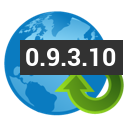
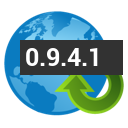
Fixed API directory browsing

Changed region(s): [[0.7812, 0.375, 0.9062, 0.5312], [0.5312, 0.375, 0.6562, 0.5312]]

diff --git a/chrome/js/requester/directory/Directory.js b/chrome/js/requester/directory/Directory.js
@@ -18,6 +18,7 @@ var Directory = Backbone.Collection.extend({
     model: DirectoryCollection,
 
     startId: 0,
+    endId: 0,
     fetchCount: 42,
     lastCount: 0,
     totalCount: 0,
@@ -52,7 +53,7 @@ var Directory = Backbone.Collection.extend({
     },
 
     loadNext: function() {
-        this.getCollections(this.startId, this.fetchCount, "descending");
+        this.getCollections(this.endId, this.fetchCount, "descending");
     },
 
     loadPrevious: function() {
@@ -62,17 +63,17 @@ var Directory = Backbone.Collection.extend({
     getCollections: function(startId, count, order) {
     	var collection = this;
 
+        console.log("Getting collections", startId, "Count", count, "Order", order);
+
     	pm.api.getDirectoryCollections(startId, count, order, function (collections) {
             var c;
             var i;
             var updated_at_formatted;
 
             if (order === "descending") {
-                collection.startId = parseInt(collections[collections.length - 1].id, 10);
                 collection.totalCount += collections.length;
             }
             else {
-                collection.startId = parseInt(collections[0].id, 10);
                 collection.totalCount -= collection.lastCount;
             }
 
@@ -90,6 +91,9 @@ var Directory = Backbone.Collection.extend({
 
                 collection.reset([]);
                 collection.add(collections, {merge: true});
+
+                collection.startId = parseInt(collections[0].id, 10);
+                collection.endId = parseInt(collections[collections.length - 1].id, 10);
 	    	}
         });
     },

diff --git a/chrome/js/utils/mediatypes.js b/chrome/js/utils/mediatypes.js
@@ -6,15 +6,16 @@ mediatypes = [
     "application/javascript",
     "application/octet-stream",
     "application/ogg",
-    "application/pdf",    
+    "application/pdf",
     "application/postscript",
     "application/rdf+xml",
     "application/rss+xml",
     "application/soap+xml",
     "application/font-woff",
+    "application/x-yaml",
     "application/xhtml+xml",
-    "application/xml",        
-    "application/xml-dtd",    
+    "application/xml",
+    "application/xml-dtd",
     "application/xop+xml",
     "application/zip",
     "application/gzip",
@@ -35,7 +36,7 @@ mediatypes = [
     "image/tiff",
     "message/http",
     "message/imdn+xml",
-    "message/partial",    
+    "message/partial",
     "message/rfc822",
     "multipart/mixed",
     "multipart/alternative",

diff --git a/chrome/js/requester/helpers/views/OAuth1Form.js b/chrome/js/requester/helpers/views/OAuth1Form.js
@@ -7,8 +7,13 @@ var OAuth1Form = Backbone.View.extend({
 
         $('#request-helper-oAuth1 .request-helper-submit').on("click", function () {
             $('#request-helpers').css("display", "none");
-            _.bind(view.save, view)();
-            _.bind(model.process, model)();
+            view.save();
+            model.process();
+        });
+
+        $('#request-helper-oAuth1 input').on("blur", function () {
+            console.log("Save helper");
+            view.save();
         });
 
         $('#request-helper-oAuth1 .request-helper-clear').on("click", function () {

diff --git a/chrome/html/requester/header.html b/chrome/html/requester/header.html
@@ -2,7 +2,7 @@
 <html>
 <head>
     <meta charset="utf-8"/>
-    <title>Postman - v0.9.3</title>
+    <title>Postman - v0.9.4</title>
     <link rel="stylesheet" type="text/css" href="css/custom-theme/jquery-ui-1.9.2.custom.min.css"/>
     <link rel="stylesheet" type="text/css" href="css/bootstrap.min.css"/>
     <link rel="stylesheet" type="text/css" href="css/bootstrap-modal.css"/>

diff --git a/chrome/tester.html b/chrome/tester.html
@@ -2,7 +2,7 @@
 <html>
 <head>
     <meta charset="utf-8"/>
-    <title>Postman - v0.9.3</title>
+    <title>Postman - v0.9.4</title>
     <link rel="stylesheet" type="text/css" href="css/custom-theme/jquery-ui-1.9.2.custom.min.css"/>
     <link rel="stylesheet" type="text/css" href="css/bootstrap.min.css"/>
     <link rel="stylesheet" type="text/css" href="css/bootstrap-modal.css"/>

diff --git a/chrome/js/requester/helpers/models/OAuth1Processor.js b/chrome/js/requester/helpers/models/OAuth1Processor.js
@@ -256,6 +256,8 @@ var OAuth1Processor = Backbone.Model.extend({
             params = params.concat(oAuthParams);
 
             if (!request.isMethodWithBody(method)) {
+                console.log("Setting URL params", params);
+
                 request.setUrlParamString(params);
                 request.trigger("customURLParamUpdate");
             } else {

diff --git a/chrome/js/requester/directory/DirectoryBrowser.js b/chrome/js/requester/directory/DirectoryBrowser.js
@@ -65,7 +65,7 @@ var DirectoryBrowser = Backbone.View.extend({
             $(".directory-browser-navigator-previous").addClass("enabled");
         }
 
-        var start = model.totalCount - model.fetchCount + 1;
+        var start = model.totalCount - model.lastCount + 1;
 
         if (start < 0) {
             start = 1;

diff --git a/chrome/js/requester/requests/models/Request.js b/chrome/js/requester/requests/models/Request.js
@@ -187,6 +187,7 @@ var Request = Backbone.Model.extend({
     },
 
     setUrlParamString:function (params, silent) {
+        console.log("Set the URL param string");
         var paramArr = [];
         var url = this.get("url");
 
